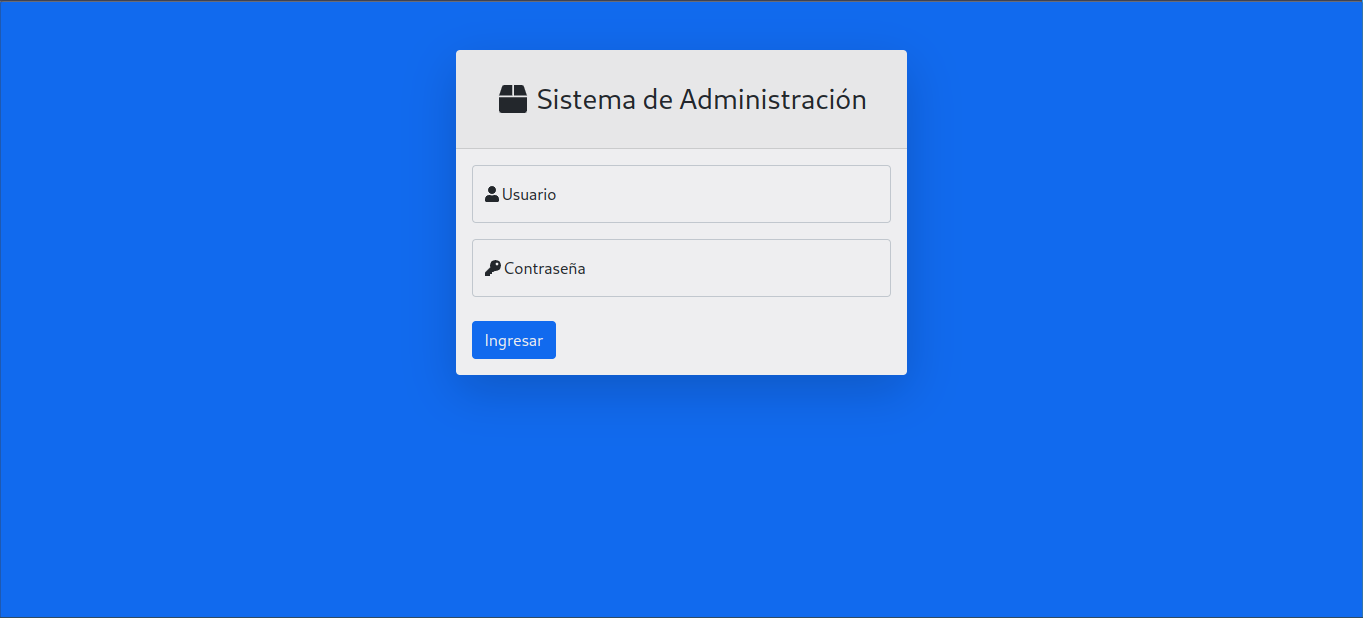
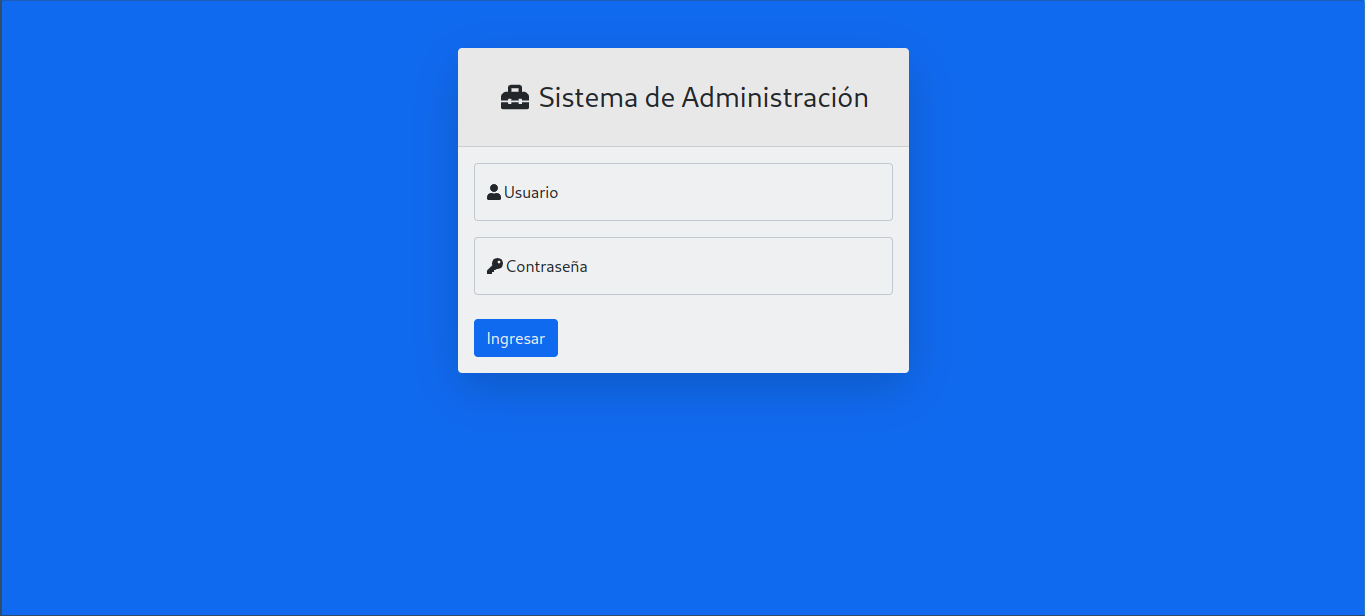
login

diff --git a/Views/index.php b/Views/index.php
@@ -21,7 +21,7 @@
                         <div class="col-lg-5">
                             <div class="card shadow-lg border-0 rounded-lg mt-5">
                                 <div class="card-header">
-                                    <h3 class="text-center font-weight-light my-4"> <i class="fas fa-box mx-1"></i> Sistema de Administración</h3>
+                                    <h3 class="text-center font-weight-light my-4"> <i class="fas fa-toolbox mx-1"></i> Sistema de Administración</h3>
                                 </div>
                                 <div class="card-body">
                                     <form id="frmLogin">
